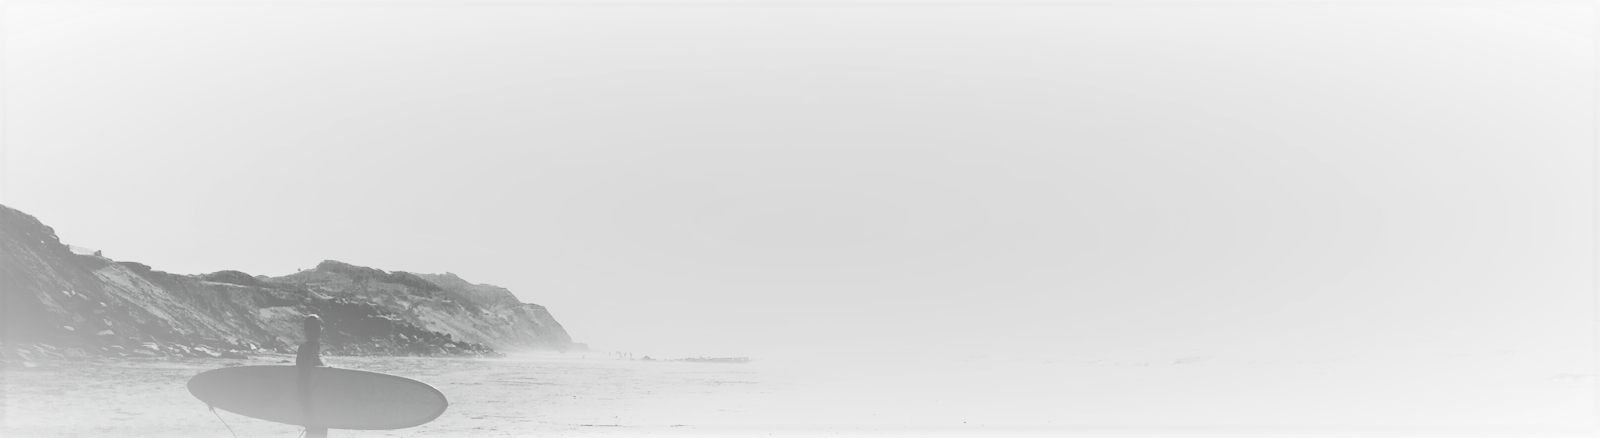
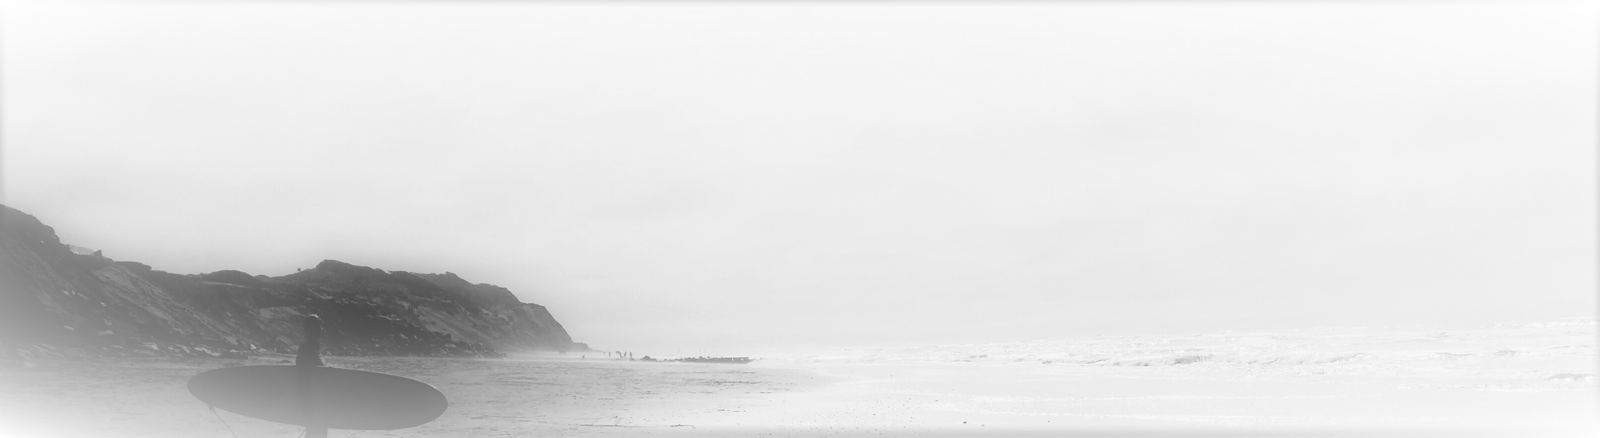
Subscribe done

Changed region(s): [[0.0, 0.5046, 0.75, 1.0], [0.0, 0.4452, 0.0312, 0.5046]]

diff --git a/css/style.css b/css/style.css
@@ -295,6 +295,17 @@ a {
   border-color: transparent transparent #ffffff transparent;
 }
 
+.form-subscribe {
+  position: relative;
+  width: 334px;
+}
+
+@media (max-width: 560px) {
+  .form-subscribe {
+    width: 100%;
+  }
+}
+
 .input-search {
   padding: 0 10px;
   width: 282px;
@@ -306,12 +317,42 @@ a {
 }
 
 .input-search:hover {
-  border: 1px solid #222222;
+  outline: 1px solid #222222;
 }
 
 @media (max-width: 560px) {
   .input-search {
     width: 100%;
+  }
+}
+
+.input-subscribe {
+  position: absolute;
+  left: 0;
+  height: 46px;
+  width: 334px;
+  background-color: #e1e1e1;
+  border-radius: 23px;
+  border: none;
+  padding-left: 30px;
+  font-size: 14px;
+  font-weight: 400;
+  letter-spacing: 0.025em;
+  color: rgba #222224, 0.67;
+}
+
+.input-subscribe:hover {
+  outline: 1px solid #222222;
+}
+
+.input-subscribe:focus {
+  border: none;
+  outline: none;
+}
+
+@media (max-width: 560px) {
+  .input-subscribe {
+    width: 80%;
   }
 }
 
@@ -371,6 +412,30 @@ a {
 .button-add-to-cart:hover {
   border: 1px solid #f16d7f;
   background: #f16d7f;
+}
+
+.button-subscribe {
+  position: absolute;
+  right: 0;
+  width: 104px;
+  height: 46px;
+  background-color: #f16d7f;
+  border-radius: 0px 23px 23px 0px;
+  border: none;
+  font-size: 14px;
+  font-weight: 400;
+  letter-spacing: 0.025em;
+  color: #ffffff;
+}
+
+.button-subscribe:hover {
+  border: 1px solid #222222;
+}
+
+@media (max-width: 560px) {
+  .button-subscribe {
+    width: 30%;
+  }
 }
 
 .cart {
@@ -837,29 +902,38 @@ a {
   }
 }
 
-.subscribe {
+.wrap-subscribe {
   margin-bottom: 100px;
-  height: 438px;
   background: url(../assets/img/surfer-bg.png) no-repeat;
+  background-size: cover;
+}
+
+.subscribe {
+  height: 438px;
   display: -ms-grid;
   display: grid;
   -ms-grid-columns: 1fr 1fr;
       grid-template-columns: 1fr 1fr;
+  -webkit-box-align: center;
+      -ms-flex-align: center;
+          align-items: center;
+  justify-items: center;
 }
 
 .subscribe__slider {
+  height: 100%;
   border-right: 1px solid #ffffff;
   display: -ms-grid;
   display: grid;
-  -ms-grid-columns: 1fr 3fr;
-      grid-template-columns: 1fr 3fr;
+  -ms-grid-columns: 1fr 4fr;
+      grid-template-columns: 1fr 4fr;
   -ms-flex-line-pack: center;
       align-content: center;
   -webkit-box-align: start;
       -ms-flex-align: start;
           align-items: start;
   justify-items: center;
-  padding: 0 50px 0 50px;
+  padding: 0 25px;
   grid-gap: 20px;
 }
 
@@ -906,5 +980,61 @@ a {
 
 .subscribe__slider .control .bg-ping {
   background: #f16d7f;
+}
+
+.subscribe__form-send-email {
+  text-align: center;
+  padding: 0 25px;
+}
+
+.subscribe__form-send-email h3 {
+  font-size: 24px;
+  font-weight: 400;
+  text-transform: uppercase;
+  letter-spacing: 0.025em;
+  color: #222224;
+}
+
+.subscribe__form-send-email p {
+  font-size: 14px;
+  text-transform: none;
+  font-weight: 400;
+  letter-spacing: 0.025em;
+  color: #222224;
+}
+
+@media (max-width: 768px) {
+  .subscribe {
+    -ms-grid-columns: 1fr;
+        grid-template-columns: 1fr;
+    -ms-grid-rows: (auto)[2];
+        grid-template-rows: repeat(2, auto);
+    -webkit-box-align: start;
+        -ms-flex-align: start;
+            align-items: start;
+  }
+  .subscribe__slider {
+    border-right: none;
+  }
+}
+
+@media (max-width: 576px) {
+  .subscribe {
+    height: 570px;
+  }
+  .subscribe__slider {
+    -ms-grid-columns: 1fr;
+        grid-template-columns: 1fr;
+    -ms-grid-rows: (auto)[2];
+        grid-template-rows: repeat(2, auto);
+  }
+  .subscribe__slider .text-and-control {
+    text-align: center;
+  }
+  .subscribe__slider .control {
+    -webkit-box-pack: center;
+        -ms-flex-pack: center;
+            justify-content: center;
+  }
 }
 /*# sourceMappingURL=style.css.map */

diff --git a/index.html b/index.html
@@ -318,27 +318,35 @@
   </section>
   <!-- /.container banner -->
 
-  <section class="container subscribe">
-    <div class="subscribe__slider">
-      <img src="assets/img/woman.png" alt="woman.png">
-      <div class="text-and-control">
-        <p>“Vestibulum quis porttitor dui! Quisque viverra nunc mi, 
-          a pulvinar purus condimentum a. Aliquam condimentum mattis neque sed pretium”</p>
-        <h3>Bin Burhan</h3>
-        <h4>Dhaka, Bd</h4>
-        <div class="control">
-          <a href="#"></a>
-          <a href="#" class="bg-ping"></a>
-          <a href="#"></a>          
+  <section class="wrap-subscribe">
+    <div class="container subscribe">
+      <div class="subscribe__slider">
+        <img src="assets/img/woman.png" alt="woman.png">
+        <div class="text-and-control">
+          <p>“Vestibulum quis porttitor dui! Quisque viverra nunc mi,
+            a pulvinar purus condimentum a. Aliquam condimentum mattis neque sed pretium”</p>
+          <h3>Bin Burhan</h3>
+          <h4>Dhaka, Bd</h4>
+          <div class="control">
+            <a href="#"></a>
+            <a href="#" class="bg-ping"></a>
+            <a href="#"></a>
+          </div>
         </div>
-      </div>      
-    </div>
-    <div class="subscribe__form-send-email">
+      </div>
+      <div class="subscribe__form-send-email">
+        <h3>Subscribe</h3>
+        <p>FOR OUR NEWLETTER AND PROMOTION</p>
+        <form action="#" class="form-subscribe">
+          <input type="email" class="input-subscribe" placeholder="Enter Your Email">
+          <button class="button-subscribe" type="submit">Subscribe</button>
+        </form>
 
+      </div>
     </div>
-    
+    <!-- /.container subscribe -->
   </section>
-  <!-- /.container subscribe -->
+  <!--  wrap-subscribe -->
 
 </body>
 

diff --git a/sass/subscribe/_subscribe.sass b/sass/subscribe/_subscribe.sass
@@ -1,17 +1,22 @@
-.subscribe
+.wrap-subscribe
   margin-bottom: 100px
-  height: 438px
   background: url(../assets/img/surfer-bg.png) no-repeat
+  background-size: cover
+.subscribe
+  height: 438px
   display: grid
   grid-template-columns: 1fr 1fr
+  align-items: center
+  justify-items: center
   &__slider
+    height: 100%
     border-right: 1px solid #ffffff
     display: grid
-    grid-template-columns: 1fr 3fr
+    grid-template-columns: 1fr 4fr
     align-content: center
     align-items: start
     justify-items: center
-    padding: 0 50px 0 50px
+    padding: 0 25px
     grid-gap: 20px
     .text-and-control
       p
@@ -44,5 +49,37 @@
         background: #d6d6d6
       .bg-ping
         background: #f16d7f
-
   &__form-send-email
+    text-align: center
+    padding: 0 25px
+    h3
+      font-size: 24px
+      font-weight: 400
+      text-transform: uppercase
+      letter-spacing: 0.025em
+      color: #222224
+    p
+      font-size: 14px
+      text-transform: none
+      font-weight: 400
+      letter-spacing: 0.025em
+      color: #222224
+
+@media (max-width: 768px)
+  .subscribe
+    grid-template-columns: 1fr
+    grid-template-rows: repeat(2, auto)
+    align-items: start
+    &__slider
+      border-right: none
+
+@media (max-width: 576px)
+  .subscribe
+    height: 570px
+    &__slider
+      grid-template-columns: 1fr
+      grid-template-rows: repeat(2, auto)
+      .text-and-control
+        text-align: center
+      .control
+        justify-content: center

diff --git a/sass/inputs/_input-subscribe.sass b/sass/inputs/_input-subscribe.sass
@@ -1,0 +1,22 @@
+.input-subscribe
+  position: absolute
+  left: 0
+  height: 46px
+  width: 334px
+  background-color: #e1e1e1
+  border-radius: 23px
+  border: none
+  padding-left: 30px
+  font-size: 14px
+  font-weight: 400
+  letter-spacing: 0.025em
+  color: rgba (#222224,  0.67)
+  &:hover
+    outline: 1px solid #222222
+  &:focus
+    border: none
+    outline: none
+
+@media (max-width: 560px)
+  .input-subscribe
+    width: 80%

diff --git a/sass/style.sass b/sass/style.sass
@@ -11,10 +11,13 @@
 @import 'summary/summary'
 @import 'controls/control-down'
 @import 'controls/control-up'
+@import 'forms/form-subscribe'
 @import 'inputs/input-search'
+@import 'inputs/input-subscribe'
 @import 'buttons/button'
 @import 'buttons/button-search'
 @import 'buttons/button-add-to-cart'
+@import 'buttons/button-subscribe'
 @import 'cart/cart'
 @import 'nav/nav'
 @import 'menu/menu'

diff --git a/sass/buttons/_button-subscribe.sass b/sass/buttons/_button-subscribe.sass
@@ -1,0 +1,18 @@
+.button-subscribe
+  position: absolute
+  right: 0
+  width: 104px
+  height: 46px
+  background-color: #f16d7f
+  border-radius: 0px 23px 23px 0px
+  border: none
+  font-size: 14px
+  font-weight: 400
+  letter-spacing: 0.025em
+  color: #ffffff
+  &:hover
+    border: 1px solid #222222
+
+@media (max-width: 560px)
+  .button-subscribe
+    width: 30%

diff --git a/sass/inputs/_input-search.sass b/sass/inputs/_input-search.sass
@@ -7,7 +7,7 @@
   border-left: none
   border-right: none
   &:hover    
-   border: 1px solid #222222
+   outline: 1px solid #222222
 
 @media (max-width: 560px)
   .input-search

diff --git a/sass/forms/_form-subscribe.sass b/sass/forms/_form-subscribe.sass
@@ -1,0 +1,7 @@
+.form-subscribe
+  position: relative
+  width: 334px
+
+@media (max-width: 560px)
+  .form-subscribe
+    width: 100%
